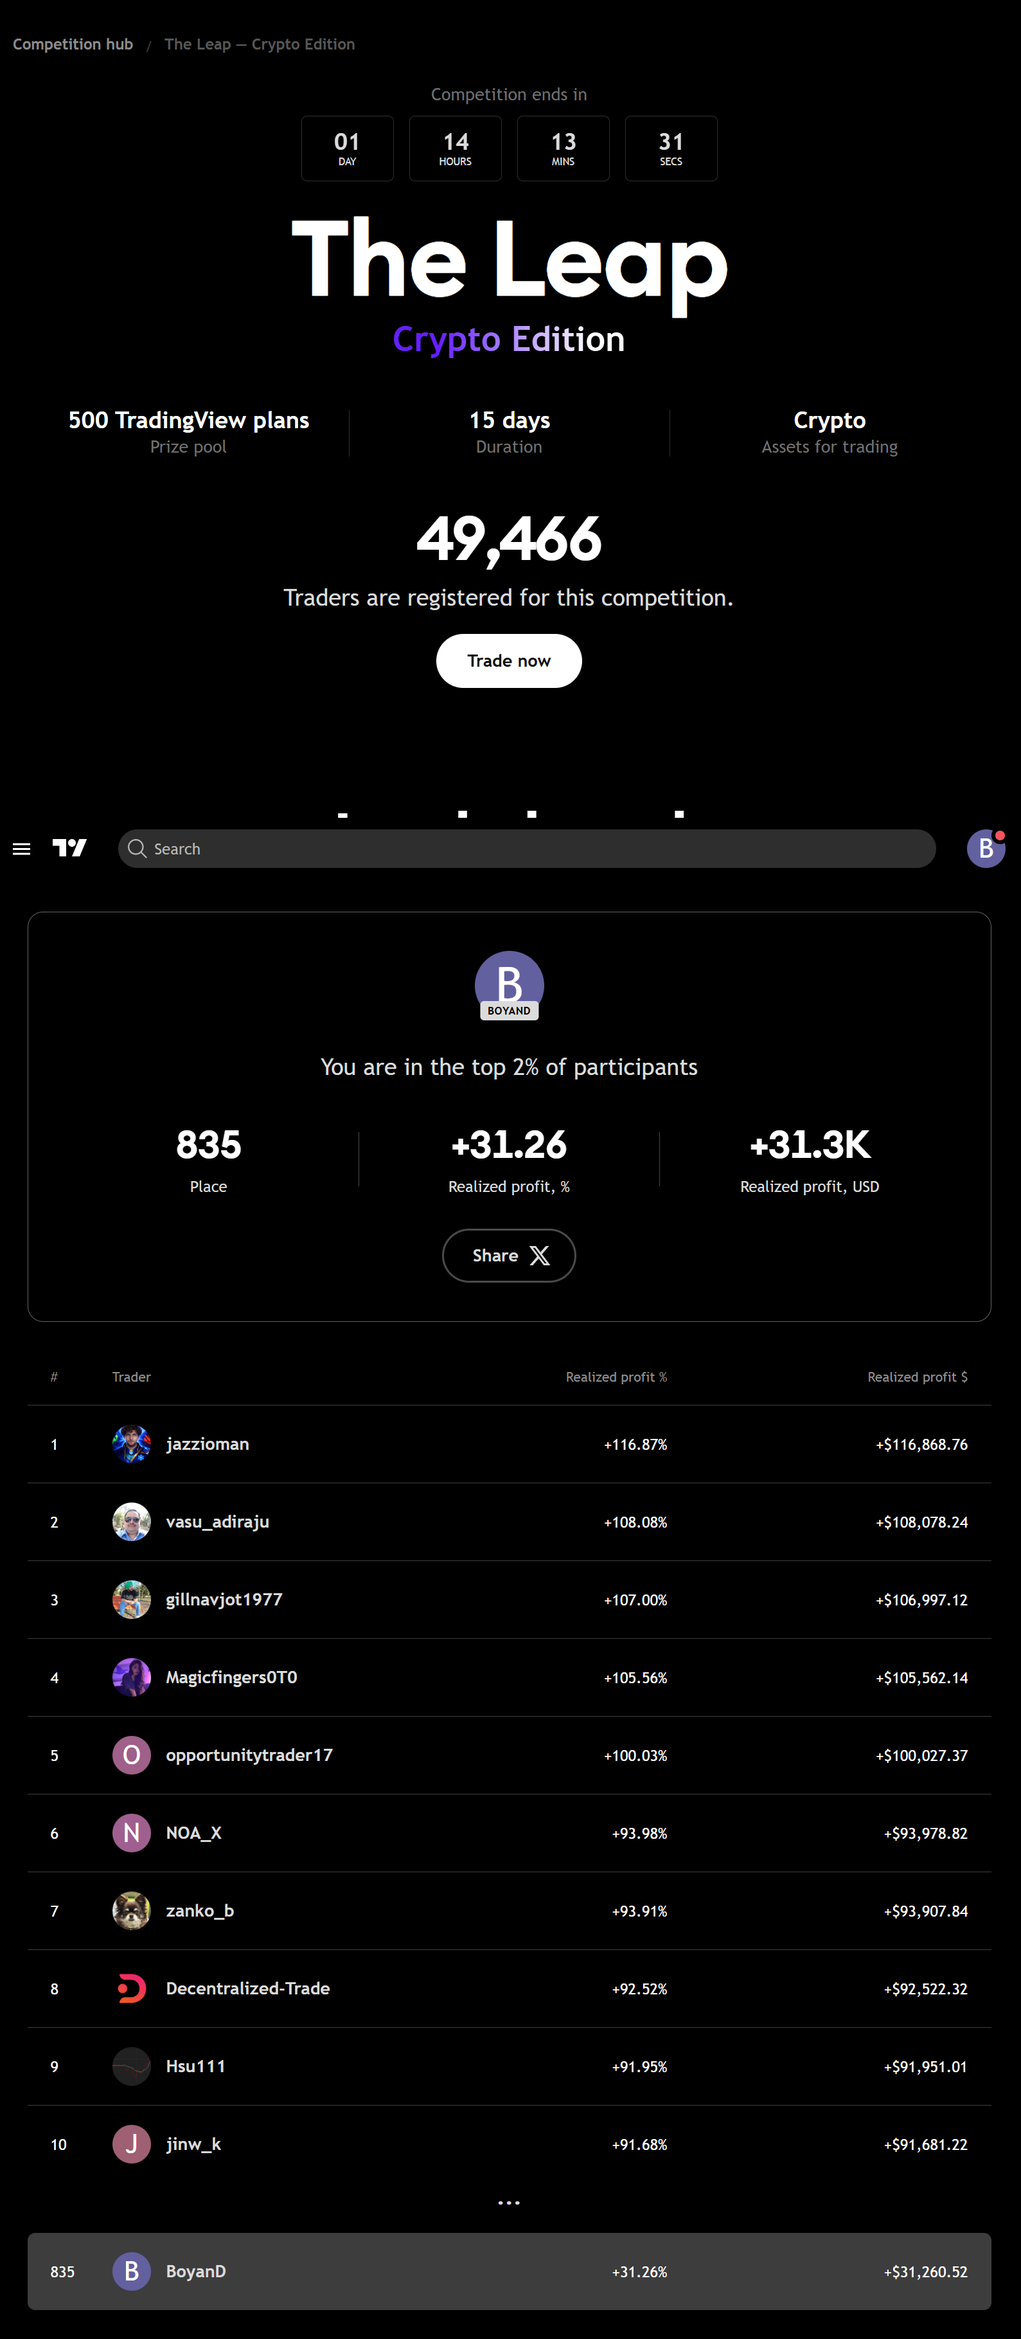
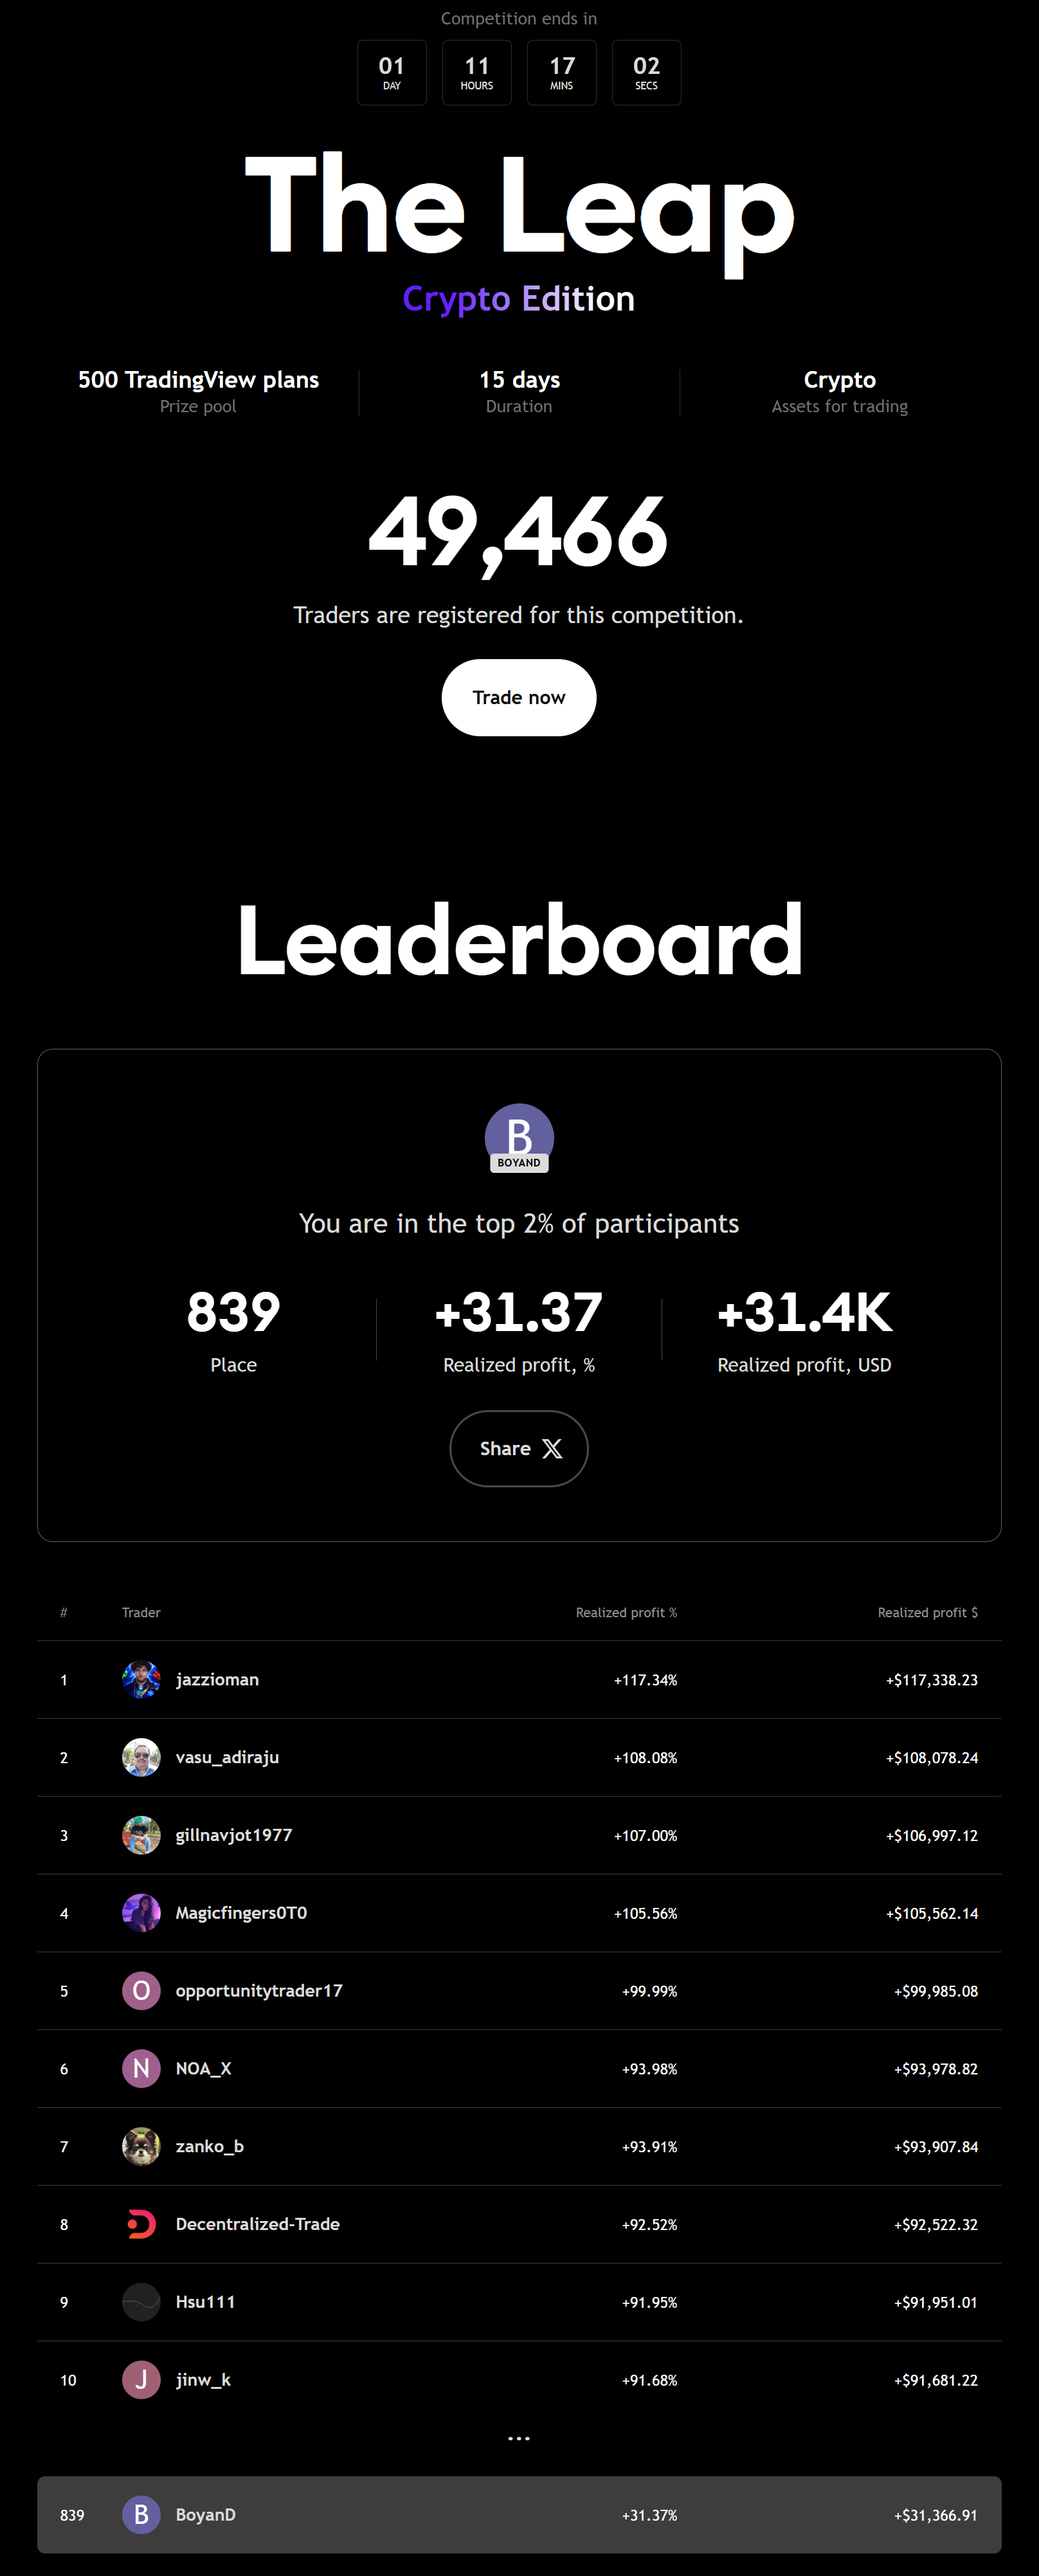
Add files via upload

diff --git a/public/8ZT/BD_8Z_Trading_Book.html b/public/8ZT/BD_8Z_Trading_Book.html
@@ -1069,7 +1069,7 @@ binVolSpike = binVol > binVolAvg + <span class="num">2.0</span> * binVolStd
 <h2>The BD Manual Method &#8212; Anti-Fragile Mean Reversion</h2>
 
 <p>
-This chapter documents the manual trading methodology that reached <strong>top 2% in TradingView's The Leap competition</strong>. As of the latest captured snapshot from the <span style="font-size:12px;color:var(--text-muted)">Feb.&#8211;Mar. 2026 Crypto Edition</span>, the account sits at <strong>place 835 out of 49,466 traders</strong> with <strong>+31.26%</strong> realized profit (<strong>+$31,260.52</strong>). The method is the opposite of the Sync Momentum engine &#8212; and that contrast is the point. Where Sync Momentum cuts losers fast and catches momentum, the BD Manual Method does what every textbook says not to do: it adds to losing positions, never cuts small losses, and turns drawdowns into the biggest winners. It works because of structural constraints that make it anti-fragile rather than reckless.
+This chapter documents the manual trading methodology that reached <strong>top 2% in TradingView's The Leap competition</strong>. As of the latest captured snapshot from the <span style="font-size:12px;color:var(--text-muted)">Feb.&#8211;Mar. 2026 Crypto Edition</span>, the account sits at <strong>place 839 out of 49,466 traders</strong> with <strong>+31.35%</strong> realized profit (<strong>+$31,349.63</strong>). The method is the opposite of the Sync Momentum engine &#8212; and that contrast is the point. Where Sync Momentum cuts losers fast and catches momentum, the BD Manual Method does what every textbook says not to do: it adds to losing positions, never cuts small losses, and turns drawdowns into the biggest winners. It works because of structural constraints that make it anti-fragile rather than reckless.
 </p>
 
 <div class="callout success">
@@ -1090,23 +1090,23 @@ The Leap is TradingView's crypto paper trading competition. <span style="font-si
 <tr><td>Mar 2</td><td>1,171</td><td>+10.69%</td><td>+$10,688</td><td>2.5%</td><td>~30 min</td></tr>
 <tr><td>Mar 3</td><td>864</td><td>+15.52%</td><td>+$15,524</td><td>2%</td><td>~2 hours</td></tr>
 <tr><td><strong>Mar 8</strong></td><td><strong>1,377</strong></td><td><strong>+20.60%</strong></td><td><strong>+$20,601</strong></td><td><strong>3%</strong></td><td><strong>&lt;10 min</strong></td></tr>
-<tr><td><strong>Mar 11</strong></td><td><strong>835</strong></td><td><strong>+31.26%</strong></td><td><strong>+$31,260.52</strong></td><td><strong>2%</strong></td><td><strong>ongoing / scattered sessions</strong></td></tr>
+<tr><td><strong>Mar 11</strong></td><td><strong>839</strong></td><td><strong>+31.35%</strong></td><td><strong>+$31,349.63</strong></td><td><strong>2%</strong></td><td><strong>ongoing / scattered sessions</strong></td></tr>
 </table>
 
 <p>
-From March 8 to March 11, the account advanced from <strong>place 1,377 to 835</strong> and from <strong>+$20.6K to +$31.3K</strong>. The key point is not just the profit &#8212; it is <em>when</em> it was made: while simultaneously building the trading system itself with AI. The book, the Sync Momentum strategy, and the ZigZag strategy were being created in parallel, and the manual trades were still producing competition-grade results. That is a real double job: trader and system architect at the same time.
+From March 8 to March 11, the account advanced from <strong>place 1,377 to 839</strong> and from <strong>+$20.6K to +$31.35K</strong>. The key point is not just the profit &#8212; it is <em>when</em> it was made: while simultaneously building the trading system itself with AI. The book, the Sync Momentum strategy, and the ZigZag strategy were being created in parallel, and the manual trades were still producing competition-grade results. That is a real double job: trader and system architect at the same time.
 </p>
 
 <div class="result-card">
 <h3 style="margin-bottom:8px;">Competition Snapshot &#8212; The Leap (Mar 11, 2026)</h3>
 <p style="margin-bottom:12px;">Live proof from TradingView's ongoing crypto competition. Click the image to enlarge it to full size.</p>
-<img class="result-image" src="TV_TheLeap_FebMar_2026.webp" alt="TradingView The Leap Crypto Edition, Mar 11 2026 &#8212; place 835 out of 49,466 traders, top 2%, +31.26% realized profit, +$31,260.52 realized profit USD">
-<div class="result-caption">TradingView The Leap &#8212; Crypto Edition snapshot: place 835 / 49,466, top 2%, +31.26%, +$31,260.52 realized profit.</div>
+<img class="result-image" src="TV_TheLeap_FebMar_2026.webp" alt="TradingView The Leap Crypto Edition, Mar 11 2026 &#8212; place 839 out of 49,466 traders, top 2%, +31.35% realized profit, +$31,349.63 realized profit USD">
+<div class="result-caption">TradingView The Leap &#8212; Crypto Edition snapshot: place 839 / 49,466, top 2%, +31.35%, +$31,349.63 realized profit.</div>
 <div class="kpi-strip">
-  <div class="kpi-pill"><div class="k">Place</div><div class="v green">835</div></div>
+  <div class="kpi-pill"><div class="k">Place</div><div class="v green">839</div></div>
   <div class="kpi-pill"><div class="k">Top percentile</div><div class="v gold">Top 2%</div></div>
-  <div class="kpi-pill"><div class="k">Profit %</div><div class="v green">+31.26%</div></div>
-  <div class="kpi-pill"><div class="k">Profit $</div><div class="v blue">+$31.26K</div></div>
+  <div class="kpi-pill"><div class="k">Profit %</div><div class="v green">+31.35%</div></div>
+  <div class="kpi-pill"><div class="k">Profit $</div><div class="v blue">+$31.35K</div></div>
   <div class="kpi-pill"><div class="k">Field size</div><div class="v">49,466</div></div>
 </div>
 </div>
@@ -1118,7 +1118,7 @@ From March 8 to March 11, the account advanced from <strong>place 1,377 to 835</
 
 <div class="callout">
 <div class="callout-title">Hourly Rate Perspective</div>
-<p>$15,500 profit from roughly 4 total hours of trading across 3 days = <strong>$3,875/hour</strong>. No job on the planet pays this well for watching charts. And the method doesn't require continuous attention &#8212; positions manage themselves while you do other work.</p>
+<p>The documented sessions add up to only a few hours of active screen time plus scattered check-ins, yet the realized competition profit reached <strong>+$31,349.63</strong>. The exact hourly number is less important than the attention efficiency: unusually high profit per unit of active time, while positions often managed themselves in the background as other work continued.</p>
 </div>
 
 <!-- &#9472;&#9472;&#9472;&#9472; PORTFOLIO STRUCTURE &#9472;&#9472;&#9472;&#9472; -->
@@ -1329,7 +1329,7 @@ The ultimate objective is to automate this method fully, so it runs without look
 
 <div class="callout warn">
 <div class="callout-title">Current Status: Manual &#8594; Semi-Auto &#8594; Full Auto</div>
-<p><strong>Phase 1 (current):</strong> Fully manual. Less than 1 hour/day. Top 2% in competition, with latest captured standing at place 835 / 49,466.<br>
+<p><strong>Phase 1 (current):</strong> Fully manual. Less than 1 hour/day. Top 2% in competition, with latest captured standing at place 839 / 49,466.<br>
 <strong>Phase 2 (next):</strong> Semi-automated: alerts fire when add/escape conditions are met, human confirms. Pine indicator overlay showing add zones, escape zones, and reversal confidence score.<br>
 <strong>Phase 3 (goal):</strong> Fully automated. Pine strategy or Python bot handles the entire cycle. Human monitors daily, intervenes only on extreme conditions.</p>
 </div>
